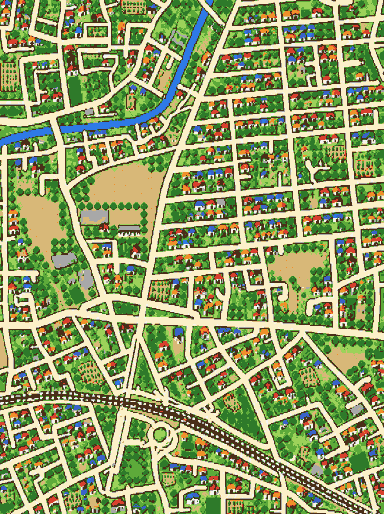
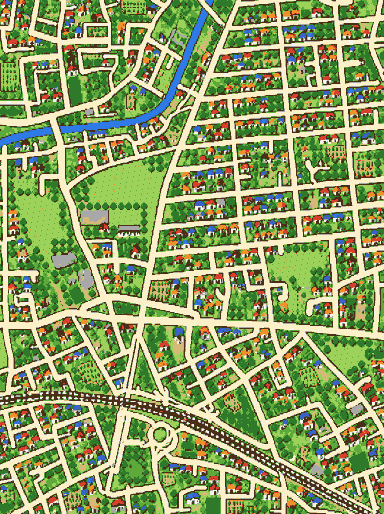
絵地図の見本: 広い空き地を緑に塗り替え、「ドット強12色・濃さ50%」を最初の表示にする

diff --git a/docs/emap/index.html b/docs/emap/index.html
@@ -54,8 +54,8 @@
     <div class="seg" role="group" aria-label="見本">
       <button type="button" data-v="now" aria-pressed="false">今</button>
       <button type="button" data-v="draw" aria-pressed="false">①</button>
-      <button type="button" data-v="dot" aria-pressed="true">①ドット</button>
-      <button type="button" data-v="ai" aria-pressed="false">② AIの絵</button>
+      <button type="button" data-v="dot" aria-pressed="false">①ドット</button>
+      <button type="button" data-v="ai" aria-pressed="true">② AIの絵</button>
     </div>
     <p class="note" id="note"></p>
     <div class="dotrow" id="dotRow">
@@ -71,7 +71,7 @@
         <button type="button" data-img="ai.jpg?v=1">手描き</button><button type="button" data-img="ai2.jpg?v=1">ドット</button><button type="button" data-img="ai3.jpg?v=1">ドット強</button>
       </div>
       <div class="seg seg-sm" role="group" aria-label="12色に減らした絵">
-        <button type="button" data-img="px2_4.png?v=1">ドット 12色</button><button type="button" data-img="px3_4.png?v=1" aria-pressed="true">ドット強 12色</button><button type="button" data-img="px3_6.png?v=1">12色 粗め</button>
+        <button type="button" data-img="px2_4.png?v=2">ドット 12色</button><button type="button" data-img="px3_4.png?v=2" aria-pressed="true">ドット強 12色</button><button type="button" data-img="px3_6.png?v=2">12色 粗め</button>
       </div>
     </div>
     <label class="slider" id="sliderRow" hidden>絵の濃さ <input id="op" type="range" min="0" max="100" value="50"></label>
@@ -84,7 +84,7 @@
   const q = new URLSearchParams(location.search);
   if (q.has('render')) document.body.classList.add('render');
   const [D, B, X] = await Promise.all([fetch('data.json?v=3').then(r => r.json()), fetch('buildings.json?v=1').then(r => r.json()), fetch('extra.json?v=1').then(r => r.json())]);
-  let AI = null, AIIMG = 'px3_4.png?v=1';
+  let AI = null, AIIMG = 'px3_4.png?v=2';
   try { AI = await (await fetch('ai.json?v=' + Date.now())).json(); } catch (e) {}
   const ll = (p) => [p[1], p[0]];
   const lines = (list) => ({ type: 'FeatureCollection', features: list.map(c => ({ type: 'Feature', properties: {}, geometry: { type: 'LineString', coordinates: c.map(ll) } })) });
@@ -354,11 +354,12 @@
   }
   document.querySelectorAll('.seg [data-v]').forEach(b => b.onclick = () => show(b.dataset.v));
   document.getElementById('op').oninput = (e) => { if (map.getLayer('ai')) map.setPaintProperty('ai', 'raster-opacity', +e.target.value / 100); };
-  note.textContent = NOTES.dot;
+  note.textContent = NOTES.ai;
   document.querySelector('.app').style.position = 'relative'; document.getElementById('map').style.position = 'relative'; document.getElementById('map').append(window.__paper);
   const paperOn = (v) => { window.__paper.hidden = v !== 'draw2'; };
   paperOn('dot');
-  setDot(true);
+  // 地図の読み込みが終わってから切り替える（先に切り替えると下の地図が描かれないことがある）
+  map.once('load', () => show('ai'));
 })();
 </script>
 </body>

diff --git a/tools/pixelize.py b/tools/pixelize.py
@@ -1,11 +1,15 @@
 # AI で描いた絵を、粗いドット＋決めた色数に加工する（地図に重ねる絵を前もって作る。動かしてもチカチカしない）
-# usage: python3 pixelize.py <in.png> <out.png> <ドットの大きさ(px)> [元の幅の基準 既定1536]
+# usage: python3 pixelize.py <in.png> <out.png> <ドットの大きさ(px)> [元の幅の基準 既定1536] [--green 空き地を緑にする最小のドット数 既定120]
 # 出力はドット1つ＝1画素の小さな PNG。地図では raster-resampling: nearest で拡大して表示する（とても軽い）
 # 必要: pip install pillow
 import sys
 from PIL import Image
 src, out, block = sys.argv[1], sys.argv[2], int(sys.argv[3])
-W = int(sys.argv[4]) if len(sys.argv) > 4 else 1536
+rest = sys.argv[4:]
+if '--green' in rest: i = rest.index('--green'); rest = rest[:i] + rest[i + 2:]
+args = rest
+W = int(args[0]) if args else 1536
+GREEN_MIN = int(sys.argv[sys.argv.index('--green') + 1]) if '--green' in sys.argv else 120
 # ファミコン風の12色（道・ふち・草・木・水・屋根・壁など、絵地図に要る色だけ）
 PAL = ['FBF0C8', '4A2E18', '5DAA3A', '2E7A2A', '9CD25A', '2E7AE6', 'D8402E', '3A62C8', 'F0902A', 'A8A8A8', 'F4F4F0', 'D8B878']
 pal_img = Image.new('P', (1, 1))
@@ -15,5 +19,20 @@ im = Image.open(src).convert('RGB')
 H = round(im.height * W / im.width)
 small = im.resize((W // block, H // block), Image.BOX)            # ドット1つ分の平均の色にする
 q = small.quantize(palette=pal_img, dither=Image.Dither.NONE)       # 12色のどれかに置き換える
+# 広い砂色（空き地・校庭・駐車場など）は緑にする（だいき指示 2026-10-23）。小さな砂色（道のはしなど）はそのまま
+SAND, GRASS, TREE = PAL.index('D8B878'), PAL.index('9CD25A'), PAL.index('5DAA3A')
+px = q.load(); w, h = q.size; seen = bytearray(w * h)
+for y0 in range(h):
+    for x0 in range(w):
+        if seen[y0 * w + x0] or px[x0, y0] != SAND: continue
+        stack, comp = [(x0, y0)], []
+        seen[y0 * w + x0] = 1
+        while stack:
+            x, y = stack.pop(); comp.append((x, y))
+            for nx, ny in ((x + 1, y), (x - 1, y), (x, y + 1), (x, y - 1)):
+                if 0 <= nx < w and 0 <= ny < h and not seen[ny * w + nx] and px[nx, ny] == SAND:
+                    seen[ny * w + nx] = 1; stack.append((nx, ny))
+        if len(comp) >= GREEN_MIN:
+            for x, y in comp: px[x, y] = TREE if (x * 7 + y * 13) % 29 == 0 else GRASS   # ところどころ濃い緑で草むらに
 q.save(out, optimize=True)
 print(out, q.size)

diff --git a/CLAUDE.md b/CLAUDE.md
@@ -60,6 +60,15 @@
   - ズームの数字は Leaflet 版に合わせてある（MapLibre のズーム + 1 = Leaflet のズーム）。`layers.js` の表示し始めるズームなどはそのまま使える
   - だいきが実機で OK を出したら、`next/` を本体（`docs/index.html`）に入れ替え、Leaflet 用の `roads.js` と index.html 内の Leaflet のコードを消す
 
+## 絵地図（2026-10-23 試作中、見本は `docs/emap/`）
+
+- 方向性: **今の地図の上に、AI に描いてもらった絵地図を濃さ50%で重ねる**。絵は「ドット強 12色」（だいき選択）
+  - 作り方: 今の地図を画像にする（`emap/?render=1` で四隅の位置も出る）→ AI（Higgsfield の GPT Image 2.5、1枚1クレジット）に「ファミコン時代のRPGの町・大きなドット・平らな12色くらい」で描き直してもらう → `tools/pixelize.py` でドット1つ＝1画素・決めた12色の小さな PNG にする → 地図では raster-resampling: nearest で拡大
+  - 広い砂色（空き地・校庭など）は緑に塗り替える（だいき指示）。`pixelize.py` の `--green`
+  - 1枚 約650m×860m・30〜60KB。大泉5町で約20枚
+- 試してやめたもの: 家の絵を置く／建物の形に家の絵を描き込む（①改、うるさい）、表示中にドット化する処理（動かすとチカチカする）
+- まだ: 複数枚のつなぎ目、実機での見え方、AI 画像の商用利用の規約確認（広告を載せる段階で）
+
 ## 見た目の決まりごと（このアプリだけの例外・追加）
 
 だいきの判断で「遊んでよい。ただし使いやすさと軽さが最優先」。
